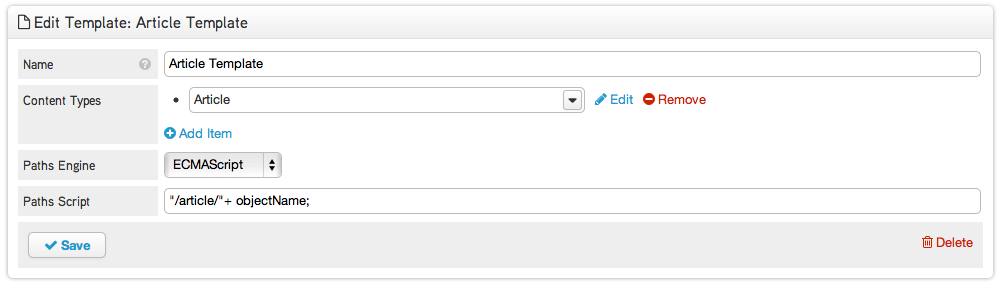
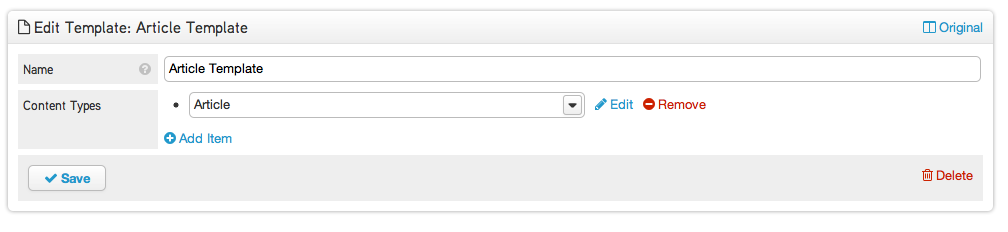
Adding Blog layout and updating permalink docs

diff --git a/docs/documentation/create-a-page.html b/docs/documentation/create-a-page.html
@@ -13,6 +13,7 @@ section: documentation
                 Pages are created when a one-off use is needed. Examples would be a homepage or contact page. New Pages are created by extending the <code>Page</code> class
                 <h4>Templates</h4>
                 Templates are used when an object is used to create multiple instances, using the same layout. Examples would be a blog template, or gallery template. New Templates are created in Admin > Templates & Sections.
+                </br></br>If you are using Brightspot 2.0, see the 2.0 <a href="template-tool.html">Template Tool</a> section to build pages and templates.
                 <hr>
                 <h2>Creating a Page</h2>
                 Brightspot contains a <code>Page</code> class as default. In the CMS, in the search tool, click into Create New, and select Page. You will notice that the object contains a <code>Name</code> and can also have a <code>URL</code>.
@@ -59,10 +60,33 @@ Using the search tool, in the Create New drop down, find your new object and cre
                 <img width="690" src="http://docs.brightspot.s3.amazonaws.com/extend-page-class.png"/>
     </div>
                 <h2>Creating Templates</h2>
-                Start by adding rendering logic to an already created object. Add two annotations to the object, one to define the <code>JSP</code> that renders the object content, and another that creates the page structure to be associated with it. Note, users of Brightspot 2.0 should see the <a href="/template-tool.html">template guide</a> for that version, which is also available.
+                Start by adding URL and rendering logic to an already created object. Note, users of Brightspot 2.0 should see the <a href="/template-tool.html">template guide</a> for that version, which is also available.
                 </br></br>
                 </p>
+                <h2>Add URL logic</h2>
+                To create a permalink automatically for a template, based on editorial input on the main content object, implement <code>Directory.Item</code> and use <code>createPermalink</code> to generate logic around how the URL should be formed within the Java class. In the example below the headline entered is used to generate the permalink for the Article.</br></br>
+                <div class="highlight">{% highlight java %}public class Article extends Content implements Directory.Item {
+
+    private String headline;
+    private ReferentialText body;
+    private Author author;
+
+    @Override
+    public String createPermalink(Site site) {
+
+        if (this.getHeadline() != null){
+            return "/article/" + StringUtils.toNormalized(headline);
+        } else {
+            return null;
+        }    
+    }
+
+}
+{% endhighlight %}</div>
+
+                </br>
                 <h2>Add Renderer Paths</h2>
+                Using the <code>@Renderer.LayoutPath</code> and <code>@Renderer.Path</code> annotations, the JSP files used to render the template layout, and the object content are associated.</br></br>
                 <div class="highlight">{% highlight java %}@Renderer.LayoutPath("/layouts/article-template.jsp")
 @Renderer.Path("/article-object.jsp")
 public class Article extends Content {
@@ -71,14 +95,23 @@ public class Article extends Content {
     private ReferentialText body;
     private Author author;
 
-    // Getters and Setters
+    @Override
+    public String createPermalink(Site site) {
+
+        if (this.getHeadline() != null){
+            return "/article/" + StringUtils.toNormalized(headline);
+        } else {
+            return null;
+        }    
+    }
 
 }
 {% endhighlight %}</div>
 
                 </br>
+                
                 <h2>Create JSP Files</h2>
-                <p>To start, create two files to render the page, the first is the entire page layout. As per the path specified within the annotation on the example above, create an <code>article-template.jsp</code> file in a new directory within webapp, called "layouts". Start by importing taglibs and then create a simple structure for your page. You can add a header, to render the headline, and a content section, which will render the rest of the object.
+                <p>Create the two files used to render the page, the first is the entire page layout. As per the path specified within the annotation on the example above, create an <code>article-template.jsp</code> file in a new directory within webapp, called "layouts". Start by importing any taglibs and then create a simple structure for your page. You can add a header, to render the headline, and a content section, which will render the rest of the object.
                 </br></br><h4>Layout JSP</h4>
                 </p>
 <div class="highlight">{% highlight jsp %}<%@ taglib prefix="c" uri="http://java.sun.com/jsp/jstl/core" %>
@@ -120,11 +153,6 @@ public class Article extends Content {
                     <div class="title">Name your Template</div>
                 </div>
             </div>
-            <div class="highlight-line left" style="top: 149px;">
-                <div class="highlight-box">
-                    <div class="title">Create a URL path</div>
-                </div>
-            </div>
             <div class="highlight-line right" style="top: 78px; width: 271px;">
                 <div class="highlight-box">
                     <div class="title">Select Article as</br>Main Content</div>
@@ -142,7 +170,7 @@ public class Article extends Content {
             </div>
             <div class="highlight-line right" style="top: 208px; width: 241px;">
                 <div class="highlight-box">
-                    <div class="title">URL structure</br>defined from</br>Template</div>
+                    <div class="title">URL structure</br>defined from</br>Java object</div>
                 </div>
             </div>
             <img width="690" src="img/developer/first-article.png"/>

diff --git a/docs/documentation/_layouts/blog.html b/docs/documentation/_layouts/blog.html
@@ -1,0 +1,147 @@
+<!DOCTYPE html>
+<html lang="en">
+<head>
+    <meta charset="utf-8">
+    <title>{{ page.title }} - Brightspot Documentation</title>
+    <meta name="viewport" content="width=device-width, initial-scale=1.0">
+    <meta name="description" content="">
+    <meta name="author" content="">
+
+    <link href='http://fonts.googleapis.com/css?family=Copse|Droid+Serif:400,700,400italic,700italic|Inconsolata:400,700|Open+Sans:300italic,400italic,600italic,700italic,400,300,600,700' rel='stylesheet' type='text/css'>
+    <link href='http://fonts.googleapis.com/css?family=Inconsolata:400,700|Open+Sans:300italic,400italic,600italic,700italic,400,300,600,700' rel='stylesheet' type='text/css'>
+
+    <link href="css/font-awesome.min.css" rel="stylesheet" />
+    <link href="css/bootstrap.min.css" rel="stylesheet">
+    <link href="css/main.less" rel="stylesheet/less" type="text/css" />
+    <link href="css/documentation.less" rel="stylesheet/less" type="text/css" />
+    <link href="css/pygments/zenburn.css" rel="stylesheet">
+
+    <script src="js/less-1.3.3.min.js" type="text/javascript"></script>
+    <script src="js/bootstrap.min.js"></script>
+    <script src="js/jquery-1.9.1.min.js"></script>
+
+    <!-- Le HTML5 shim, for IE6-8 support of HTML5 elements -->
+    <!--[if lt IE 9]>
+        <script src="http://html5shim.googlecode.com/svn/trunk/html5.js"></script>
+    <![endif]-->
+
+    <script type="text/javascript">
+        if (window.location.href.indexOf("http://perfectsense.github.com/brightspot-cms/") != -1) {
+            var url = window.location.href.replace(
+                    "http://perfectsense.github.com/brightspot-cms/", 
+                    "http://www.brightspotcms.com/");
+            window.location = url;
+        }
+    </script>
+
+    {% if site.url == 'dev' %}
+    <script type="text/javascript">
+    less = {
+        env: "development",
+    };
+    </script>
+    {% endif %}
+
+    {% if site.url != 'dev' %}
+    <script type="text/javascript">
+        var _gaq = _gaq || [];
+        _gaq.push(['_setAccount', 'UA-32403198-1']);
+        _gaq.push(['_trackPageview']);
+
+        (function() {
+            var ga = document.createElement('script'); ga.type = 'text/javascript'; ga.async = true;
+            ga.src = ('https:' == document.location.protocol ? 'https://ssl' : 'http://www') + '.google-analytics.com/ga.js';
+            var s = document.getElementsByTagName('script')[0]; s.parentNode.insertBefore(ga, s);
+        })();
+    </script>
+    {% endif %}
+</head>
+
+<body data-target=".dari-docs-sidebar" data-spy="scroll" onload="prettyPrint()">
+
+    <div class="navbar navbar-fixed-top">
+        <div class="navbar-inner">
+            <div class="container">
+            <a class="btn btn-navbar" data-toggle="collapse" data-target=".nav-collapse">
+                <span class="icon-bar"></span>
+                <span class="icon-bar"></span>
+                <span class="icon-bar"></span>
+            </a>
+            <div class="nav-collapse collapse">
+                <ul class="nav">
+                    <li class="{% if page.id == 'index' %}active{% endif %}"><a class="main-link" href="index.html">For Editors</a></li>
+                    <li class="{% if page.id == 'developer' %}active{% endif %}"><a class="main-link" href="developer.html">For Developers</a></li>
+                    <li class="{% if page.section == 'documentation' %}active{% endif %}"><a class="main-link" href="support.html">Documentation/Support</a></li>
+                </ul>
+            </div>
+            <div class="nav pull-right">
+               <ul class="nav">
+                    <li><a class="social" href="mailto:brightspotcms@perfectsensedigital.com"><i class="icon-envelope"></i> Contact Us</a></li>
+                    <li><a class="social" href="https://twitter.com/brightspotcms"><i class="icon-twitter"></i> Follow on Twitter</a></li>
+                    <li><a class="social" href="https://github.com/perfectsense/brightspot-cms"><i class="icon-github"></i> Follow on Github</a></li>
+                </ul>
+            </div>
+            </div>
+        </div>
+    </div>
+
+    <div style="height: 58px;"></div>
+
+    <div class="breadcrumbs">
+        <div class="container">
+            <div class="span12">
+                &laquo; <a href="tips.html">Back to Brightspot Tips</a> 
+            </div>
+        </div>
+    </div>
+
+    <div class="container documentation">
+        <div class="row header">
+            <div class="span12">
+                <h1>{{ page.title }}</h1>
+            </div>
+        </div>
+        <div class="row">
+            {{ content }}
+        </div>
+    </div><!--/row-->
+</div><!--/.container-->
+
+<footer>
+    <div class="container">
+        <div class="row">
+            <div class="span6 blurb">
+                <a href="http://www.perfectsensedigital.com"><img src="img/psd-logo.png" style="max-height: 60px;"/></a>
+                <p>Brightspot CMS was built by PERFECT SENSE digital, LLC.</p>
+            </div>
+        </div>
+    </div>
+</footer>
+
+<script type="text/javascript">
+skrollr.init({
+        forceHeight: false
+});
+$(function() {
+    $(".main-link").click(function(el) {
+        var href = $(this).attr("href");
+
+        if ($("body").scrollTop() == 0) {
+            return true;
+        } else {
+            $('html, body').animate({scrollTop: 0}, {
+                complete: function() {
+                    window.location = href;
+                }
+            }, 350);
+        }
+
+        return false;
+    });
+    
+});
+</script>
+
+</body>
+</html>
+

diff --git a/docs/documentation/inline-editing.html b/docs/documentation/inline-editing.html
@@ -1,5 +1,5 @@
 ---
-layout: default
+layout: blog
 title: Editorial Tip - Inline editing
 id: support
 section: documentation
@@ -32,7 +32,7 @@ section: documentation
                     <div class="description">Use the same interface as the full CMS.</div>
                 </div>
             </div>
-            <div class="highlight-line left" style="top: 370px; width: 257px;">
+            <div class="highlight-line left" style="top: 376px; width: 280px;">
                 <div class="highlight-box">
                     <div class="title">Save Instantly</div>
                     <div class="description">Make your edits and click save. Refresh the page to see the updates instantly.</div>
@@ -45,7 +45,7 @@ section: documentation
             <div class="span12">
             <h4>Summary: Inline Editing</h4></br>
             <p>The goal of the inline editor is to provide you with a quick and easy way to make changes to your content as you see the need on your site, without having to navigate back into the CMS. Everything that can be edited on a page within the CMS is also available to be edited inline, using the same intuitive user interface and tools.</br></br>
-Don’t forget: there is full editorial documentation available online at <a href="www.brightspotcms.com">www.brightspotcms.com</a>. If you have any questions or feedback, contact us at editors@perfectsensedigital.com</p>
+Don’t forget: there is full editorial documentation available online at <a href="www.brightspotcms.com">www.brightspotcms.com</a>. If you have any questions or feedback, contact us at brightspotcms@perfectsensedigital.com</p>
             
         </div>
     </div>

diff --git a/docs/documentation/tips.html b/docs/documentation/tips.html
@@ -1,6 +1,6 @@
 ---
 layout: default
-title: Brightspot Blog
+title: Brightspot Tips
 id: support
 section: documentation
 ---
@@ -13,6 +13,7 @@ section: documentation
     <div class="container documentation">
         <div class="row header">
             <div class="span12">
+                Brightspot Tips is a collection of tutorials that aim to help you, the editor or developer, to get the most out of Brightspot CMS.Browse the recent tips to find new features, or existing capabilities explained in detail. As always, if you have any questions get in <a target="_blank" href="http://brightspot.tenderapp.com/discussion/new">contact</a> with us.
             <div class="row">
             <div class="box span12">
                 <h4>Editorial Tip - Inline Editing</h4>

diff --git a/docs/documentation/support.html b/docs/documentation/support.html
@@ -13,7 +13,7 @@ section: documentation
                 <div class="span12">
                     <h1><strong>Support</strong></h1>
                     <p>
-                    Get support, <a target="_blank" href="http://brightspot.tenderapp.com/discussion/new">ask us a question</a>.
+                    Get support, <a target="_blank" href="http://brightspot.tenderapp.com/discussion/new">ask us a question</a> or read the latest <a href="tips.html">Brightspot Tips</a>, for Editors and Developers.
                     </p>
                     <p>
                     Report bugs, request features and get

diff --git a/docs/documentation/group-by.html b/docs/documentation/group-by.html
@@ -1,5 +1,5 @@
 ---
-layout: default
+layout: blog
 title: Developer Tip - Group By Querying
 id: support
 section: documentation
